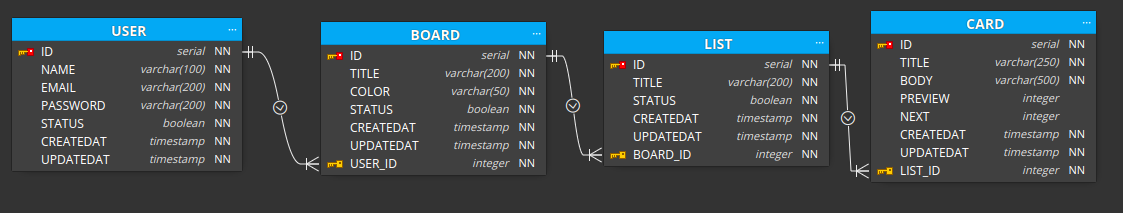
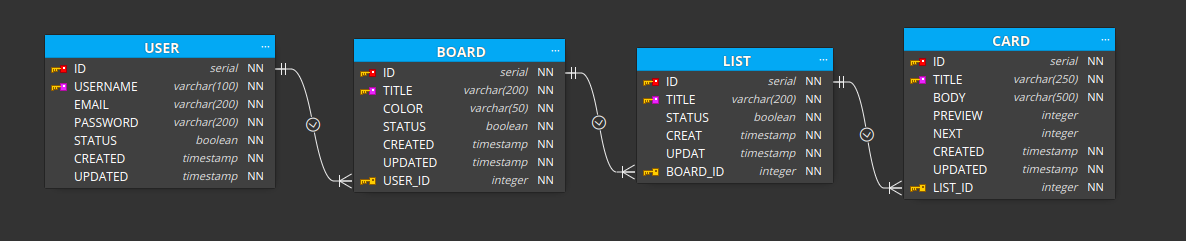
implementando modelos

Changed region(s): [[0.2805, 0.0282, 0.9973, 0.8451], [0.0, 0.0845, 0.2805, 0.7887], [0.2493, 0.6761, 0.4987, 0.8169]]

diff --git a/src/database/migrations/2024.02.05T23.34.52.initial_migrations.ts b/src/database/migrations/2024.02.05T23.34.52.initial_migrations.ts
@@ -12,8 +12,9 @@ CREATE TABLE BOARD(
   STATUS boolean NOT NULL,
   CREATED timestamp NOT NULL,
   UPDATED timestamp NOT NULL,
-  USERS_ID integer NOT NULL,
-  CONSTRAINT BOARD_pkey PRIMARY KEY(ID)
+  USER_ID integer NOT NULL,
+  CONSTRAINT BOARD_pkey PRIMARY KEY(ID),
+  CONSTRAINT BOARD_TITLE_key UNIQUE(TITLE)
 );
 
 COMMENT ON TABLE BOARD IS 'Conjunto de pizarras que puede tener un usuario';
@@ -27,7 +28,8 @@ CREATE TABLE CARD(
   CREATED timestamp NOT NULL,
   UPDATED timestamp NOT NULL,
   LIST_ID integer NOT NULL,
-  CONSTRAINT CARD_pkey PRIMARY KEY(ID)
+  CONSTRAINT CARD_pkey PRIMARY KEY(ID),
+  CONSTRAINT CARD_TITLE_key UNIQUE(TITLE)
 );
 
 COMMENT ON TABLE CARD IS 'Agrupa todas las card que puede tener una lista';
@@ -36,10 +38,11 @@ CREATE TABLE LIST(
   ID serial NOT NULL,
   TITLE varchar(200) NOT NULL,
   STATUS boolean NOT NULL,
-  CREATED timestamp NOT NULL,
-  UPDATED timestamp NOT NULL,
+  CREAT timestamp NOT NULL,
+  UPDAT timestamp NOT NULL,
   BOARD_ID integer NOT NULL,
-  CONSTRAINT LIST_pkey PRIMARY KEY(ID)
+  CONSTRAINT LIST_pkey PRIMARY KEY(ID),
+  CONSTRAINT LIST_TITLE_key UNIQUE(TITLE)
 );
 
 COMMENT ON TABLE LIST IS
@@ -47,20 +50,22 @@ COMMENT ON TABLE LIST IS
 
 CREATE TABLE USERS(
   ID serial NOT NULL,
-  NAME varchar(100) NOT NULL,
+  NAME varchar(200) NOT NULL,
+  USERNAME varchar(100) NOT NULL,
   EMAIL varchar(200) NOT NULL,
   PASSWORD varchar(200) NOT NULL,
   STATUS boolean NOT NULL,
   CREATED timestamp NOT NULL,
   UPDATED timestamp NOT NULL,
-  CONSTRAINT USERS_pkey PRIMARY KEY(ID)
+  CONSTRAINT USERS_pkey PRIMARY KEY(ID),
+  CONSTRAINT USERS_USERNAME_key UNIQUE(USERNAME)
 );
 
 COMMENT ON TABLE USERS IS 'Conjunto de usuarios de la  aplicación board';
 
 ALTER TABLE BOARD
-  ADD CONSTRAINT BOARD_USERS_ID_fkey
-    FOREIGN KEY (USERS_ID) REFERENCES USERS (ID);
+  ADD CONSTRAINT BOARD_USER_ID_fkey
+    FOREIGN KEY (USER_ID) REFERENCES USERS (ID);
 
 ALTER TABLE LIST
   ADD CONSTRAINT LIST_BOARD_ID_fkey
@@ -68,8 +73,7 @@ ALTER TABLE LIST
 
 ALTER TABLE CARD
   ADD CONSTRAINT CARD_LIST_ID_fkey
-    FOREIGN KEY (LIST_ID) REFERENCES LIST (ID);
-`);
+    FOREIGN KEY (LIST_ID) REFERENCES LIST (ID);`);
 };
 export const down: Migration = async (params) => {
     return params.context.query(`RAISE EXCEPTION 'down migration not implemented'`);

diff --git a/src/app/users/model/users.object.models.ts b/src/app/users/model/users.object.models.ts
@@ -1,0 +1,37 @@
+import { z } from "zod";
+
+export const userSchema = z.object({
+    username: z.string({
+        required_error: "userName is required.",
+        invalid_type_error: "userName should be a valid string of at least two characters."
+    }).refine((value)=>true,{message:'it must be a valid text string.'}).transform((value)=>value.toUpperCase().trim()),
+    name: z.string({
+        required_error: "Name is required.",
+        invalid_type_error: "Name should be a valid string of at least two characters."
+    }).refine((value)=>true,{message:'it must be a valid text string.'}).transform((value)=>value.toUpperCase().trim()),
+    email: z.string({
+        required_error: "email is required.",
+        invalid_type_error: "email should be a valid string of at least two characters."
+    }).email().transform((value)=>value.toUpperCase().trim()),
+    password: z.string({
+        required_error: "Password is required.",
+        invalid_type_error: "Password should be a valid string of at least two characters."
+    }),
+    status: z.boolean({
+        required_error: "Status is required.",
+        invalid_type_error: "Status should be a valid boolean."
+    }).optional().transform(()=>true),
+    created: z.string().optional().default(new Date().toISOString()),
+    updated: z.string().optional().default(new Date().toISOString())
+})
+
+
+type userSchemaType = z.infer<typeof userSchema>
+
+export interface userInterface extends userSchemaType{}
+export interface userInterfaceData extends  userSchemaType{
+    id: number
+}
+
+
+export const userFieldsValid: string[] = ['username','name','email']

diff --git a/src/app/card/model/card.object.models.ts b/src/app/card/model/card.object.models.ts
@@ -1,0 +1,38 @@
+import { z } from "zod";
+
+export const cardSchema = z.object({
+    title: z.string({
+        required_error: "title is required.",
+        invalid_type_error: "title should be a valid string of at least two characters."
+    }).refine((value)=>true,{message:'it must be a valid text string.'}).transform((value)=>value.toUpperCase().trim()),
+    body: z.string({
+        required_error: "body is required.",
+        invalid_type_error: "body should be a valid string of at least two characters."
+    }),
+    preview: z.number({
+        invalid_type_error: "preview should be a valid number."
+    }).optional(),
+    next: z.number({
+        invalid_type_error: "preview should be a valid number."
+    }).optional(),
+    list_id: z.number({
+        required_error: "List id is required.",
+        invalid_type_error: "List id should be a valid string of at least two characters."
+    }),
+    status: z.boolean({
+        required_error: "Status is required.",
+        invalid_type_error: "Status should be a valid boolean."
+    }).optional().transform(()=>true),
+    created: z.string().optional().default(new Date().toISOString()),
+    updated: z.string().optional().default(new Date().toISOString())
+})
+
+
+type cardSchemaType = z.infer<typeof cardSchema>
+
+export interface cardInterface extends cardSchemaType{}
+export interface cardInterfaceData extends cardSchemaType{
+    id: number
+}
+
+export const cardFieldsValid: string[] = ['title', 'list_id','body']

diff --git a/src/app/board/model/board.object.models.ts b/src/app/board/model/board.object.models.ts
@@ -1,0 +1,32 @@
+import { z } from "zod";
+
+export const boardSchema = z.object({
+    title: z.string({
+        required_error: "title is required.",
+        invalid_type_error: "title should be a valid string of at least two characters."
+    }).refine((value)=>true,{message:'it must be a valid text string.'}).transform((value)=>value.toUpperCase().trim()),
+    color: z.string({
+        required_error: "Color is required.",
+        invalid_type_error: "Color should be a valid string of at least two characters."
+    }).refine((value)=>true,{message:'it must be a valid text string.'}).transform((value)=>value.toUpperCase().trim()),
+    users_id: z.number({
+        required_error: "User id is required.",
+        invalid_type_error: "User id should be a valid number."
+    }),
+    status: z.boolean({
+        required_error: "Status is required.",
+        invalid_type_error: "Status should be a valid boolean."
+    }).optional().transform(()=>true),
+    created: z.string().optional().default(new Date().toISOString()),
+    updated: z.string().optional().default(new Date().toISOString())
+})
+
+type boardSchemaType = z.infer<typeof boardSchema>
+
+export interface boardInterface extends boardSchemaType{}
+export interface boardInterfaceData extends  boardSchemaType{
+    id: number
+}
+
+
+export const boardFieldsValid: string[] = ['title']

diff --git a/src/app/list/model/list.object.models.ts b/src/app/list/model/list.object.models.ts
@@ -1,0 +1,21 @@
+import { z } from "zod";
+
+export const listSchema = z.object({
+    title: z.string({
+        required_error: "title is required.",
+        invalid_type_error: "title should be a valid string of at least two characters."
+    }).refine((value)=>true,{message:'it must be a valid text string.'}).transform((value)=>value.toUpperCase().trim()),
+    board_id: z.number({
+        required_error: "Board id is required.",
+        invalid_type_error: "Board id should be a valid number."
+    })
+})
+
+type listSchemaYType = z.infer<typeof listSchema>
+
+export interface  listInterface extends  listSchemaYType{}
+export interface  listInterfaceData extends listSchemaYType{
+    id: number
+}
+
+export const listFieldsValid : string[] = ['title', 'board_id']

diff --git a/src/app/card/model/card.update.models.ts b/src/app/card/model/card.update.models.ts
@@ -1,0 +1,13 @@
+import { z } from "zod";
+
+export const cardSchemaUpdate = z.object({
+    title: z.string().optional(),
+    body: z.string().optional(),
+    preview: z.number().optional(),
+    next: z.number().optional(),
+    list_id: z.number().optional()
+})
+
+type cardSchemaUpdateType = z.infer<typeof cardSchemaUpdate>
+
+export interface cardInterfaceUpdate extends cardSchemaUpdateType{}

diff --git a/src/app/card/model/card.response.models.ts b/src/app/card/model/card.response.models.ts
@@ -1,0 +1,14 @@
+import { z } from "zod";
+
+export const cardSchemaResponse = z.object({
+    id: z.number(),
+    title: z.string(),
+    body: z.string(),
+    preview: z.number(),
+    next: z.number(),
+    list_id: z.number()
+})
+
+type cardSchemaResponseType = z.infer<typeof cardSchemaResponse>
+
+export interface cardInterfaceResponse extends cardSchemaResponseType{}

diff --git a/src/app/users/model/users.update.models.ts b/src/app/users/model/users.update.models.ts
@@ -1,0 +1,14 @@
+import { z } from "zod";
+
+
+export const userSchemaUpdate = z.object({
+    username: z.string().optional(),
+    name: z.string().optional(),
+    email: z.string().optional(),
+    password: z.string().optional()
+})
+
+
+type userSchemaUpdateType = z.infer<typeof userSchemaUpdate>
+
+export interface userInterfaceUpdate extends userSchemaUpdateType{}

diff --git a/src/app/users/model/users.response.models.ts b/src/app/users/model/users.response.models.ts
@@ -1,0 +1,15 @@
+import { z } from "zod";
+
+
+export const userSchemaResponse = z.object({
+    id: z.number().int(),
+    username: z.string(),
+    name: z.string(),
+    email: z.string(),
+    password: z.string()
+})
+
+
+type userSchemaResponseType = z.infer<typeof userSchemaResponse>
+
+export interface userInterfaceResponse extends userSchemaResponseType{}

diff --git a/src/app/list/model/list.update.models.ts b/src/app/list/model/list.update.models.ts
@@ -1,0 +1,13 @@
+import { z } from "zod";
+
+
+export const listSchemaUpdate = z.object({
+    id: z.number().optional(),
+    title: z.string().optional(),
+    board_id: z.number().optional()
+})
+
+type listSchemaUpdateType = z.infer<typeof listSchemaUpdate>
+
+export interface  listInterfaceUpdate extends listSchemaUpdateType{}
+

diff --git a/src/app/board/model/board.response.models.ts b/src/app/board/model/board.response.models.ts
@@ -1,0 +1,13 @@
+import { z } from "zod";
+
+
+export const boardSchemaResponse = z.object({
+    id: z.number().int(),
+    title: z.string(),
+    color: z.string(),
+    user_id: z.number().int()
+})
+
+type boardSchemaType = z.infer<typeof boardSchemaResponse>
+
+export interface boardInterfaceResponse extends boardSchemaType{}

diff --git a/src/app/list/model/list.response.models.ts b/src/app/list/model/list.response.models.ts
@@ -1,0 +1,13 @@
+import { z } from "zod";
+
+
+export const listSchemaResponse = z.object({
+    id: z.number(),
+    title: z.string(),
+    board_id: z.number()
+})
+
+type listSchemaResponseType = z.infer<typeof listSchemaResponse>
+
+export interface  listInterface extends listSchemaResponseType{}
+
